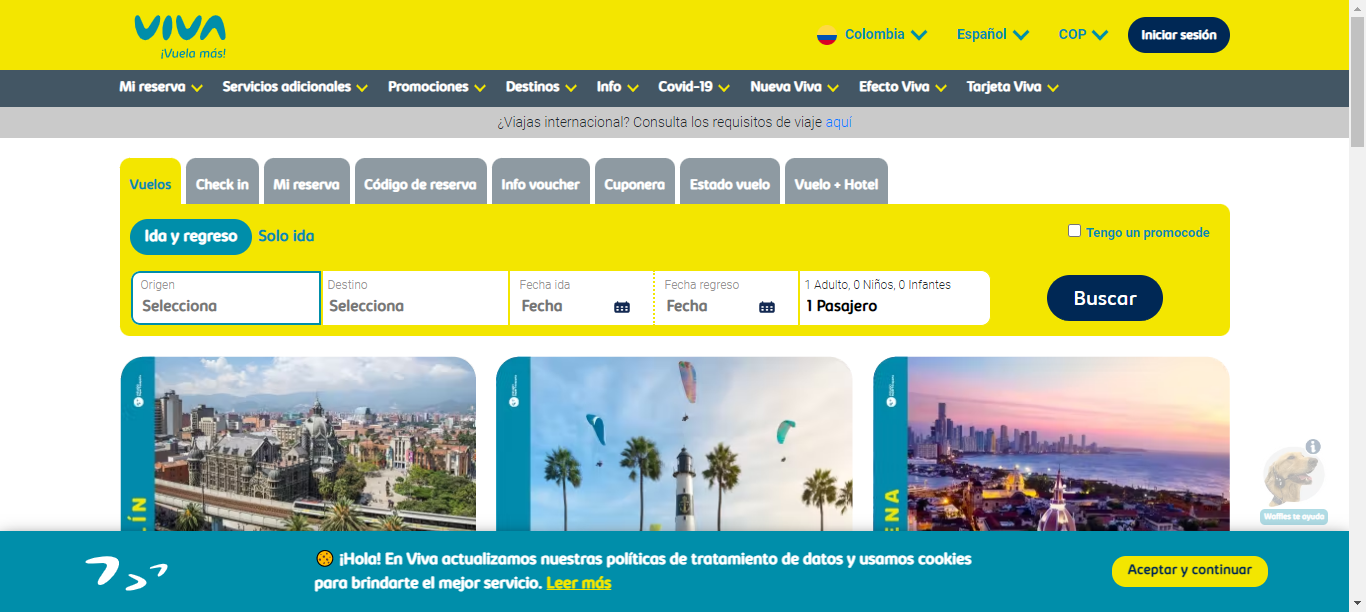
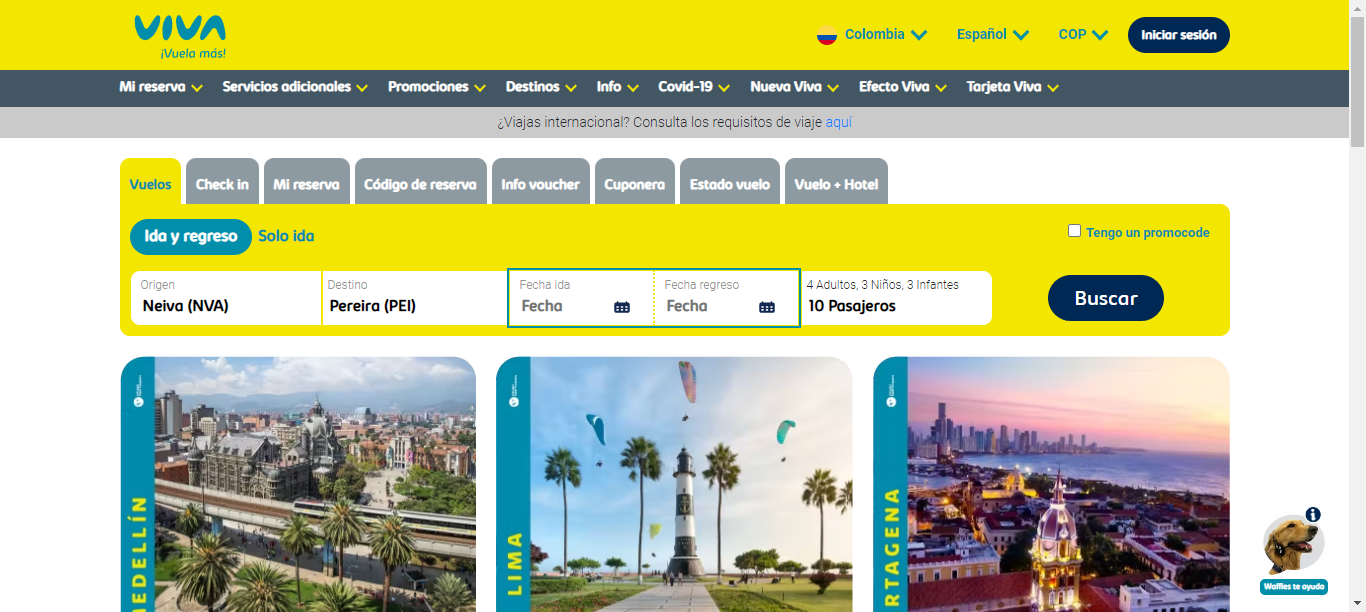
4. Implementing a automatic random origin/destiny places

diff --git a/src/main/java/pages/HomePage.java b/src/main/java/pages/HomePage.java
@@ -3,145 +3,235 @@ package pages;
 import org.openqa.selenium.By;
 import org.openqa.selenium.NoSuchElementException;
 import org.openqa.selenium.WebDriver;
+import org.openqa.selenium.WebElement;
 import org.openqa.selenium.support.ui.ExpectedConditions;
 import org.openqa.selenium.support.ui.FluentWait;
 import utils.Waiters;
 
 import java.time.Duration;
 import java.util.ArrayList;
+import java.util.Random;
 
 public class HomePage extends Waiters {
 
 
 
+    //Arraylist Origin Cities
+        ArrayList originCities = new ArrayList<>();
+    //Arraylist Destiny Cities
+        ArrayList destinyCities = new ArrayList<>();
     //WebDriver
-    private WebDriver driver;
+         private WebDriver driver;
     //Waiters Object
-    private Waiters waiter = new Waiters();
+        private Waiters waiter = new Waiters();
     //Locators : Loader
-    private By originLoaderLocator = By.xpath("//*[@class='loader']");
+        private By originLoaderLocator = By.xpath("//*[@class='loader']");
     //Locators : Cookie
-    private By acceptCookieLocator = By.xpath("//button[contains(.,\"Aceptar y continuar\")]");
+        private By acceptCookieLocator = By.xpath("//button[contains(.,\"Aceptar y continuar\")]");
     //Locators : Popup
-    //private By xBtnPopUpLocator = By.xpath("//*[@class='bx-modal__btn-close-icon']");
-    private By xBtnPopUpLocator = By.xpath("//*[@class='bx-modal__btn-close-icon']");
+        //private By xBtnPopUpLocator = By.xpath("//*[@class='bx-modal__btn-close-icon']");
+        private By xBtnPopUpLocator = By.xpath("//*[@class='bx-modal__btn-close-icon']");
     //Locators : Trip Origin
-    private By tripOriginLocator = By.cssSelector("#station");
-    private By originLocator = By.xpath("//*[text()='Armenia']/..");
-    private By originNewRouteLocator = By.xpath("(//*[@class='station__name --with-new-route'])");
+        private By tripOriginLocator = By.cssSelector("#station");
+        private By originLocator;
+        //private By originLocator = By.xpath("//*[text()='Armenia']/..");
+        //private By originNewRouteLocator = By.xpath("(//*[@class='station__name --with-new-route'])");
+        //private By originOtherRoutesLocator = By.xpath("(//span[@class='station__name'])");
     //Locators : Trip Destiny
-    private By tripDestinyLocator = By.xpath("//*[text()='Destino']");
-    private By destinyLocator = By.xpath("//div[contains(text(),'Barranquilla')]");
-    private By AllDestinyContainerLocator = By.cssSelector("div .station__popover");
+        private By tripDestinyLocator = By.xpath("//*[text()='Destino']");
+        private By destinyLocator;
+        private By AllDestinyContainerLocator = By.cssSelector("div .station__popover");
     //Locators : Trip Date
-    private By firstDateLocator = By.xpath("//*[@class='calendar__date_picker__container--grid calendar__date_picker__container__day--first--mon']/div[text()=31]");
-    private By lastDateLocator = By.xpath("//div[@class='calendar__date_picker__container--grid calendar__date_picker__container__day--first--thu']/div[text()=11]");
+        private By firstDateLocator = By.xpath("//*[@class='calendar__date_picker__container--grid calendar__date_picker__container__day--first--mon']/div[text()=31]");
+        private By lastDateLocator = By.xpath("//div[@class='calendar__date_picker__container--grid calendar__date_picker__container__day--first--thu']/div[text()=11]");
     //Locators : Passengers
-    private By passengerLocator = By.xpath("//label[@for='passenger'][contains(.,'Adulto')]");
-    private By adultBtnLocator = By.xpath("(//*[@class='action__sign'][text()=\"+\"])[1]");
-    private By childrenBtnLocator = By.xpath("(//*[@class='action__sign'][text()=\"+\"])[2]");
-    private By infantBtnLocator = By.xpath("(//*[@class='action__sign'][text()=\"+\"])[3]");
-    private By closePassengerBtnLocator = By.cssSelector("button[class='close pull-right']");
+        private By passengerLocator = By.xpath("//label[@for='passenger'][contains(.,'Adulto')]");
+        private By adultBtnLocator = By.xpath("(//*[@class='action__sign'][text()=\"+\"])[1]");
+        private By childrenBtnLocator = By.xpath("(//*[@class='action__sign'][text()=\"+\"])[2]");
+        private By infantBtnLocator = By.xpath("(//*[@class='action__sign'][text()=\"+\"])[3]");
+        private By closePassengerBtnLocator = By.cssSelector("button[class='close pull-right']");
     //Locators : Search Button
-    private By searchBtnLocator = By.xpath("//button[@class='btn-blue ibe__button__desktop ibe__button']//span[@class='ibe__inputs-button'][contains(.,'Buscar')]");
+        private By searchBtnLocator = By.xpath("//button[@class='btn-blue ibe__button__desktop ibe__button']//span[@class='ibe__inputs-button'][contains(.,'Buscar')]");
 
     //CONSTRUCTOR
-    public HomePage(WebDriver driver){
+    public HomePage(WebDriver driver) {
         this.driver = driver;
     }
+
     //Should wait the loader
-    public void waitHomePageLoader(){
+    public void waitHomePageLoader() {
         FluentWait wait = new FluentWait(driver)
                 .withTimeout(Duration.ofSeconds(5))
                 .pollingEvery(Duration.ofSeconds(1))
                 .ignoring(NoSuchElementException.class);
         wait.until(ExpectedConditions.invisibilityOf(driver.findElement(originLoaderLocator)));
     }
+
     //Should Accept Cookies
-    public void clickOnAcceptCookies(){
+    public void clickOnAcceptCookies() {
         driver.findElement(acceptCookieLocator).click();
     }
+
     //Should Close PopUp
-    public void clickXBtnPopUp(){
+    public void clickXBtnPopUp() {
         waitPresenceOfElementLocated(xBtnPopUpLocator, driver);
         waitElementIsVisible(driver.findElement(xBtnPopUpLocator), driver);
-            driver.findElement(xBtnPopUpLocator).click();}
+        driver.findElement(xBtnPopUpLocator).click();
+    }
 
     //Should select Trip Origin
-    public void clickOnTripOrigin(){
+    public void clickOnTripOrigin() {
         waitPresenceOfElementLocated(tripOriginLocator, driver);
         waitElementIsVisible(driver.findElement(tripOriginLocator), driver);
         driver.findElement(tripOriginLocator).click();
     }
-    public void clickTripPlaceOrigin(){
+
+    public void clickTripPlaceOrigin() {
+        originLocator = By.xpath(setRandomCity(originCities));
         waitPresenceOfElementLocated(originLocator, driver);
         waitElementIsVisible(driver.findElement(originLocator), driver);
         driver.findElement(originLocator).click();
     }
+
     //Should select Trip Destiny
-    public void clickOnTripDestiny(){
+    public void clickOnTripDestiny() {
         waitPresenceOfElementLocated(tripDestinyLocator, driver);
         waitElementIsVisible(driver.findElement(tripDestinyLocator), driver);
         driver.findElement(tripDestinyLocator).click();
     }
-    public void clickTripPlaceDestiny(){
+
+    public void clickTripPlaceDestiny() {
+        destinyLocator = By.xpath(setRandomCity(destinyCities));
         waitPresenceOfElementLocated(destinyLocator, driver);
         waitElementIsVisible(driver.findElement(destinyLocator), driver);
         driver.findElement(destinyLocator).click();
     }
+
     //Selecting Trip Date
-    public void selectInicialDate(){
+    public void selectInicialDate() {
         waitPresenceOfElementLocated(firstDateLocator, driver);
         waitElementIsVisible(driver.findElement(firstDateLocator), driver);
         driver.findElement(firstDateLocator).click();
     }
-    public void selectFinalDate(){
+
+    public void selectFinalDate() {
         waitPresenceOfElementLocated(lastDateLocator, driver);
         waitElementIsVisible(driver.findElement(lastDateLocator), driver);
         driver.findElement(lastDateLocator).click();
     }
+
     //Should select how many passengers
     public void clickOnPassengers() {
         waitPresenceOfElementLocated(passengerLocator, driver);
         waitElementIsVisible(driver.findElement(passengerLocator), driver);
         driver.findElement(passengerLocator).click();
     }
+
     public void clickAdultBtn() {
         waitPresenceOfElementLocated(adultBtnLocator, driver);
         waitElementIsVisible(driver.findElement(adultBtnLocator), driver);
         driver.findElement(adultBtnLocator).click();
     }
+
     public void clickChildrenBtn() {
         waitPresenceOfElementLocated(childrenBtnLocator, driver);
         waitElementIsVisible(driver.findElement(childrenBtnLocator), driver);
         driver.findElement(childrenBtnLocator).click();
     }
+
     public void clickInfantBtn() {
         waitPresenceOfElementLocated(infantBtnLocator, driver);
         waitElementIsVisible(driver.findElement(infantBtnLocator), driver);
         driver.findElement(infantBtnLocator).click();
     }
-    public void clickClosePassengerBox(){
+
+    public void clickClosePassengerBox() {
         waitPresenceOfElementLocated(closePassengerBtnLocator, driver);
         waitElementIsVisible(driver.findElement(closePassengerBtnLocator), driver);
         driver.findElement(closePassengerBtnLocator).click();
     }
+
     //Should select search button
-    public BookingPage clickSearchBtn(){
+    public BookingPage clickSearchBtn() {
         waitPresenceOfElementLocated(searchBtnLocator, driver);
         waitElementIsVisible(driver.findElement(searchBtnLocator), driver);
         driver.findElement(searchBtnLocator).click();
         return new BookingPage(driver);
     }
 
-    //Arraylist Origin Cities
-    ArrayList cities = new ArrayList();
-    public void saveAllNewRutesCities(){
-        boolean flag = true;
-            for (int i = 1; i <= 8; i++) {
-                cities.add("(" + originNewRouteLocator + ")" + "[" + i + "]");
-                
+
+    public void saveOriginCities() {
+        int i = 1;
+        Boolean flag_1 = true;
+        while (flag_1) {
+            By originNewRouteLocator = By.xpath("(//*[@class='station__name --with-new-route'])" + "[" + i + "]");
+            String originNewRouteLocatorString = originNewRouteLocator.toString();
+            String originRefactorNewRoutesLocator = originNewRouteLocatorString.replaceAll("By.xpath: ", "");
+            if ((driver.findElements(originNewRouteLocator).size() != 0)) {
+                originCities.add(originRefactorNewRoutesLocator);
+                i++;
+            } else {
+                flag_1 = false;
             }
-                ;
+        }
+        int j = 1;
+        Boolean flag_2 = true;
+        while (flag_2) {
+            By originOtherRoutesLocator = By.xpath("(//span[@class='station__name'])" + "[" + j + "]");
+            String originOtherRoutesLocatorString = originOtherRoutesLocator.toString();
+            String originReformatOtherRoutesLocator = originOtherRoutesLocatorString.replaceAll("By.xpath: ", "");
+            if ((driver.findElements(originOtherRoutesLocator).size() != 0)) {
+                originCities.add(originReformatOtherRoutesLocator);
+                j++;
+            } else {
+                flag_2 = false;
+            }
+        }
+    }
+
+    public void saveDestinyCities() {
+        int i = 1;
+        Boolean flag_1 = true;
+        while (flag_1) {
+            By destinyNewRouteLocator = By.xpath("(//*[@class='station__name --with-new-route'])" + "[" + i + "]");
+            String destinyNewRouteLocatorString = destinyNewRouteLocator.toString();
+            String destinyRefactorNewRoutesLocator = destinyNewRouteLocatorString.replaceAll("By.xpath: ", "");
+            if ((driver.findElements(destinyNewRouteLocator).size() != 0)) {
+                destinyCities.add(destinyRefactorNewRoutesLocator);
+                i++;
+            } else {
+                flag_1 = false;
+            }
+        }
+        int j = 1;
+        Boolean flag_2 = true;
+        while (flag_2) {
+            By destinyOtherRoutesLocator = By.xpath("(//span[@class='station__name'])" + "[" + j + "]");
+            String destinyOtherRoutesLocatorString = destinyOtherRoutesLocator.toString();
+            String destinyRefactorNewRoutesLocator = destinyOtherRoutesLocatorString.replaceAll("By.xpath: ", "");
+            if ((driver.findElements(destinyOtherRoutesLocator).size() != 0)) {
+                destinyCities.add(destinyRefactorNewRoutesLocator);
+                j++;
+            } else {
+                flag_2 = false;
+            }
+        }
+    }
+
+    public String setRandomCity(ArrayList cities) {
+        Random random = new Random();
+        int randomGenerated = random.nextInt(cities.size());
+        return cities.get(randomGenerated).toString();
+    }
+
+    public void printAllCities() {
+        for (int i = 0; originCities.size() > i; i++) {
+            System.out.println(originCities.get(i));
+        }
+        for (int j = 0; destinyCities.size() > j; j++) {
+            System.out.println(destinyCities.get(j));
+        }
+        System.out.println("Origin Random City: " + setRandomCity(originCities));
+        System.out.println("Destiny Random City: " + setRandomCity(destinyCities));
     }
 }

diff --git a/src/test/java/VivaAirTests/SomeTripTest.java b/src/test/java/VivaAirTests/SomeTripTest.java
@@ -17,9 +17,12 @@ public class SomeTripTest extends BaseTest {
         //Selecting Trip Origin
             homePage.clickOnTripOrigin();
             homePage.waitHomePageLoader();
-            homePage.saveAllNewRutesCities();
+                        homePage.saveOriginCities();
+                        //homePage.printAllCities();
             homePage.clickTripPlaceOrigin();
         //Selecting Trip Destiny
+                        homePage.saveDestinyCities();
+                        //homePage.printAllCities();
             homePage.clickTripPlaceDestiny();
         //Selecting Date
             homePage.waitHomePageLoader();
